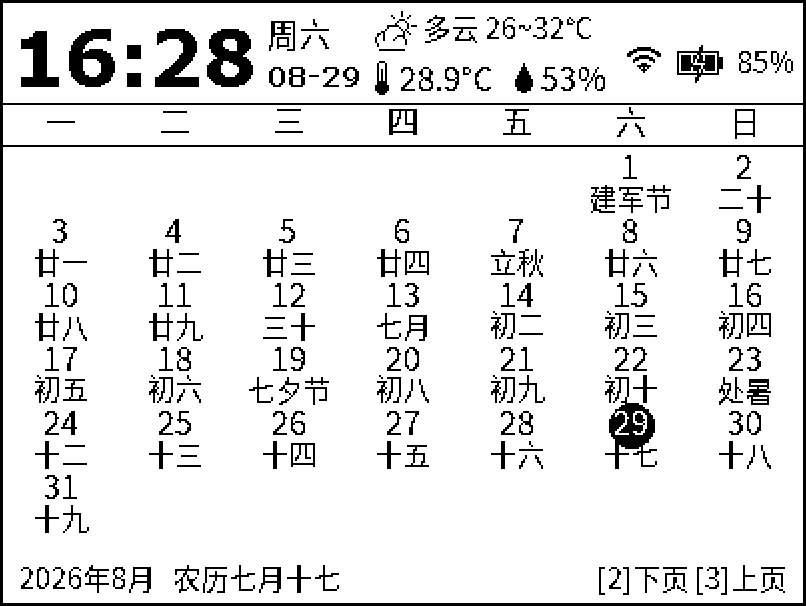
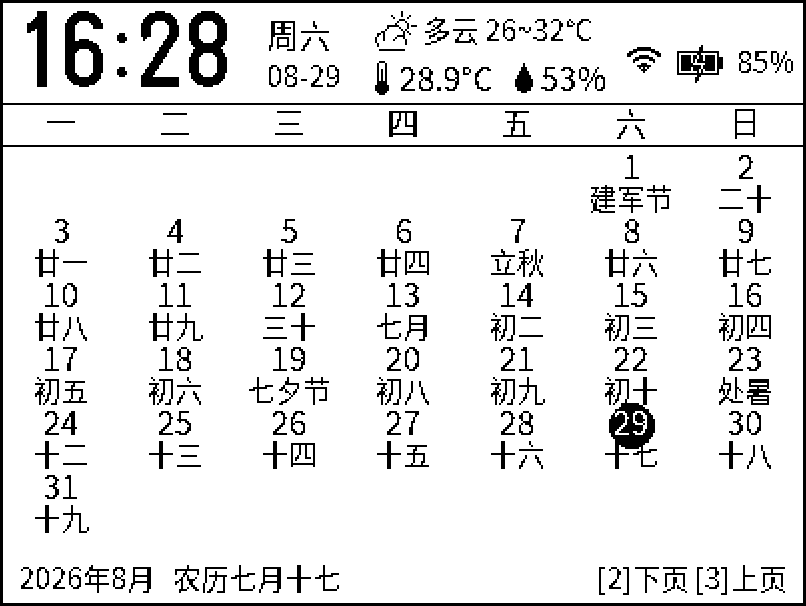
Previews render with the firmware's u8g2 bitmap fonts; ignore videos/

diff --git a/preview/u8g2font.py b/preview/u8g2font.py
@@ -1,0 +1,176 @@
+"""Render text with the u8g2 bitmap fonts the firmware compiles in, so the previews are pixel-identical to the device.
+
+The fonts are read straight out of the C sources: fonts_noto.c (the 14/16/18 px Noto Sans CJK sets generated by
+gen_fonts.sh) and U8g2's own u8g2_fonts.c (logisoso38_tn, the time font). No font files are needed beyond those.
+
+    from u8g2font import fonts, Draw
+    F = fonts()                       # {14: noto14, 16: noto16, 18: noto18, 38: logisoso38_tn}
+    d = Draw(img)                     # drop-in for ImageDraw.Draw: text()/textlength() accept these fonts
+    d.text((8, 42), "16:28", font=F[38], anchor="ls")
+
+Baseline semantics follow u8g2: the y coordinate is the baseline, glyphs sit above it; a glyph missing from the
+font draws nothing and advances 0 px (a blank on the preview means a blank on the device — extend charset.txt).
+"""
+import os, re, sys
+from PIL import ImageDraw
+
+HERE = os.path.dirname(os.path.abspath(__file__))
+U8G2_FONTS_C_CANDIDATES = [
+    os.environ.get("U8G2_FONTS_C", ""),
+    os.path.expanduser("~/arduino-user/libraries/U8g2_for_Adafruit_GFX/src/u8g2_fonts.c"),
+    os.path.expanduser("~/Documents/Arduino/libraries/U8g2_for_Adafruit_GFX/src/u8g2_fonts.c"),
+]
+
+_ESC = {"n": 10, "t": 9, "r": 13, "a": 7, "b": 8, "f": 12, "v": 11, "\\": 92, '"': 34, "'": 39, "?": 63}
+
+def _unescape(lit):
+    """Bytes of a C string literal body (no surrounding quotes): octal/hex escapes, plus the simple ones."""
+    out = bytearray(); i = 0; n = len(lit)
+    while i < n:
+        c = lit[i]
+        if c != "\\": out.append(ord(c)); i += 1; continue
+        i += 1; c = lit[i]
+        if c in "01234567":
+            j = i
+            while j < n and j - i < 3 and lit[j] in "01234567": j += 1
+            out.append(int(lit[i:j], 8) & 0xFF); i = j
+        elif c == "x":
+            j = i + 1
+            while j < n and lit[j] in "0123456789abcdefABCDEF": j += 1
+            out.append(int(lit[i+1:j], 16) & 0xFF); i = j
+        else:
+            out.append(_ESC[c]); i += 1
+    return bytes(out)
+
+def load_c_font(path, name):
+    """Extract the byte array of `name` from a C file where it is stored as concatenated string literals."""
+    with open(path, "rb") as fh: src = fh.read().decode("latin-1")
+    m = re.search(r"\b" + re.escape(name) + r"\s*\[\s*\d*\s*\][^=;]*=\s*", src)
+    if not m: raise KeyError(f"{name} not found in {path}")
+    data = bytearray(); p = m.end()
+    for lit in re.finditer(r'"((?:[^"\\]|\\.)*)"|;', src[p:]):
+        if lit.group(0) == ";": break
+        data += _unescape(lit.group(1))
+    return bytes(data)
+
+class _Bits:
+    def __init__(self, data, pos): self.d = data; self.pos = pos; self.bit = 0
+    def u(self, cnt):               # unsigned, LSB first, exactly like u8g2_font_decode_get_unsigned_bits
+        val = self.d[self.pos] >> self.bit
+        if self.bit + cnt >= 8:
+            self.pos += 1
+            if self.pos < len(self.d): val |= self.d[self.pos] << (8 - self.bit)
+            self.bit = self.bit + cnt - 8
+        else: self.bit += cnt
+        return val & ((1 << cnt) - 1)
+    def s(self, cnt): return self.u(cnt) - (1 << (cnt - 1))
+
+class U8g2Font:
+    HDR = 23
+    def __init__(self, data, name=""):
+        self.data = data; self.name = name; d = data
+        (self.glyph_cnt, self.bbx_mode, self.bits_0, self.bits_1, self.bits_w, self.bits_h, self.bits_x, self.bits_y,
+         self.bits_dx, self.max_w, self.max_h) = d[:11]
+        self.ascent_A = _s8(d[13]); self.descent_g = _s8(d[14]); self.ascent_para = _s8(d[15]); self.descent_para = _s8(d[16])
+        self._index = {}            # codepoint -> offset of the glyph bit data
+        p = self.HDR
+        while p + 1 < len(d) and d[p + 1] != 0:            # 8-bit encodings: [enc][len][bits...]
+            self._index[d[p]] = p + 2; p += d[p + 1]
+        upos = (d[21] << 8) | d[22]
+        if upos:                                            # unicode block: jump table then [enc16][len][bits...]
+            table = self.HDR + upos; p = table + ((d[table] << 8) | d[table + 1])
+            while p + 2 < len(d):
+                e = (d[p] << 8) | d[p + 1]
+                if e == 0: break
+                self._index[e] = p + 3; p += d[p + 2]
+        self._cache = {}
+        self._warned = set()
+
+    def glyph(self, cp):
+        """(w, h, xo, yo, dx, rows) with rows a list of ints (bit 1<<(w-1-col) set = ink); None if missing."""
+        if cp in self._cache: return self._cache[cp]
+        off = self._index.get(cp)
+        if off is None: self._cache[cp] = None; return None
+        b = _Bits(self.data, off)
+        w = b.u(self.bits_w); h = b.u(self.bits_h); xo = b.s(self.bits_x); yo = b.s(self.bits_y); dx = b.s(self.bits_dx)
+        rows = [0] * h
+        if w > 0 and h > 0:
+            x = y = 0
+            def run(n, ink):
+                nonlocal x, y
+                while n > 0:
+                    cnt = min(n, w - x)
+                    if ink and y < h: rows[y] |= ((1 << cnt) - 1) << (w - x - cnt)
+                    x += cnt; n -= cnt
+                    if x >= w: x = 0; y += 1
+            while True:
+                a = b.u(self.bits_0); c = b.u(self.bits_1)
+                while True:
+                    run(a, False); run(c, True)
+                    if b.u(1) == 0: break
+                if y >= h: break
+        g = (w, h, xo, yo, dx, rows); self._cache[cp] = g; return g
+
+    def width(self, s):             # same as U8g2_for_Adafruit_GFX::getUTF8Width: sum of delta_x, 0 for missing glyphs
+        return sum(g[4] for g in (self.glyph(ord(c)) for c in s) if g)
+
+    def draw(self, img, x, y, s, fill=0):
+        px = img.load(); W, H = img.size; x = int(x); y = int(y)
+        for c in s:
+            g = self.glyph(ord(c))
+            if g is None:
+                if c not in self._warned:
+                    self._warned.add(c); print(f"u8g2font: '{c}' (U+{ord(c):04X}) is not in {self.name}", file=sys.stderr)
+                continue
+            w, h, xo, yo, dx, rows = g
+            top = y - (h + yo); left = x + xo
+            for r, bits in enumerate(rows):
+                if not bits: continue
+                yy = top + r
+                if 0 <= yy < H:
+                    for col in range(w):
+                        if bits & (1 << (w - 1 - col)):
+                            xx = left + col
+                            if 0 <= xx < W: px[xx, yy] = fill
+            x += dx
+
+class Draw:
+    """ImageDraw.Draw stand-in: text()/textlength() route U8g2Font instances to the bitmap renderer,
+    everything else (lines, rectangles, PIL fonts) goes to the wrapped ImageDraw."""
+    def __init__(self, img): self.img = img; self._d = ImageDraw.Draw(img)
+    def __getattr__(self, n): return getattr(self._d, n)
+    def textlength(self, s, font=None, **kw):
+        if isinstance(font, U8g2Font): return font.width(s)
+        return self._d.textlength(s, font=font, **kw)
+    def text(self, xy, s, font=None, fill=0, anchor="ls", **kw):
+        if not isinstance(font, U8g2Font): return self._d.text(xy, s, font=font, fill=fill, anchor=anchor, **kw)
+        if anchor[1] != "s": raise ValueError("u8g2 fonts draw from the baseline only (anchor '?s')")
+        x, y = xy; tw = font.width(s)
+        if anchor[0] == "r": x -= tw                     # ui.cpp txtRight
+        elif anchor[0] == "m": x -= tw // 2              # ui.cpp txtCenter (integer division)
+        font.draw(self.img, x, y, s, fill)
+
+def _s8(v): return v - 256 if v > 127 else v
+
+_FONTS = None
+def fonts():
+    """{14: noto14, 16: noto16, 18: noto18, 38: logisoso38_tn} — exactly the sets ui.cpp binds to F_SM/F_TXT/F_NAME/F_TIME."""
+    global _FONTS
+    if _FONTS: return _FONTS
+    noto = os.path.join(HERE, "..", "fonts_noto.c")
+    F = {sz: U8g2Font(load_c_font(noto, f"u8g2_font_noto{sz}_hd"), f"noto{sz}") for sz in (14, 16, 18)}
+    for p in U8G2_FONTS_C_CANDIDATES:
+        if p and os.path.exists(p):
+            F[38] = U8g2Font(load_c_font(p, "u8g2_font_logisoso38_tn"), "logisoso38_tn"); break
+    else:
+        raise FileNotFoundError("u8g2_fonts.c (U8g2_for_Adafruit_GFX) not found; set U8G2_FONTS_C=/path/to/u8g2_fonts.c")
+    _FONTS = F; return F
+
+if __name__ == "__main__":          # quick self-check: dump a few glyphs as ASCII art
+    F = fonts()
+    for sz, text in ((38, "07:"), (16, "周五"), (14, "更新")):
+        f = F[sz]; print(f"{f.name}: glyphs={len(f._index)} ascent={f.ascent_A} descent={f.descent_g} width({text!r})={f.width(text)}")
+        for c in text:
+            g = f.glyph(ord(c)); w, h, xo, yo, dx, rows = g
+            print(f"  {c!r} w={w} h={h} xo={xo} yo={yo} dx={dx}")
+            for r in rows: print("   " + "".join("#" if r & (1 << (w - 1 - i)) else "." for i in range(w)))

diff --git a/preview/mock.py b/preview/mock.py
@@ -1,18 +1,18 @@
-"""Local preview: draw the 400x300 dashboard with PIL using ui.cpp's coordinate system (a macOS CJK font
-approximates the u8g2 wqy bitmap font).
+"""Local preview: draw the 400x300 dashboard with PIL using ui.cpp's coordinate system and the firmware's own
+u8g2 bitmap fonts (see u8g2font.py), so the output is pixel-identical to the device.
 Usage: uvx --with pillow python mock.py [out.png] [--en]
 --en draws the English UI (cfg.lang=1); fields pushed by the server (server names, Claude window names) are
 left as-is, matching the real device."""
 import sys
-from PIL import Image, ImageDraw, ImageFont, ImageOps
+from PIL import Image, ImageOps
+from u8g2font import fonts, Draw
 EN = "--en" in sys.argv
 def L(zh, en): return en if EN else zh
 W, H = 400, 300
-CJK = "NotoSansCJKsc-Regular.otf"
-DIGIT = "/System/Library/Fonts/Supplemental/Verdana Bold.ttf"
-def f(sz): return ImageFont.truetype(CJK, sz)
-def fd(sz): return ImageFont.truetype(DIGIT, sz)
-img = Image.new("1", (W, H), 1); d = ImageDraw.Draw(img)
+F = fonts()                       # the firmware's own u8g2 bitmap fonts: 14/16/18 px Noto (fonts_noto.c) + logisoso38 (time)
+def f(sz): return F[sz]           # F_SM / F_TXT / F_NAME in ui.cpp
+def fd(sz): return F[sz]          # 38 → F_TIME; 14 → the date is plain F_SM on the device
+img = Image.new("1", (W, H), 1); d = Draw(img)
 def txt(x, y, s, font, fill=0, anchor="ls"): d.text((x, y), s, font=font, fill=fill, anchor=anchor)
 def tw(s, font): return d.textlength(s, font=font)
 def meter(x, y, w, h, pct): d.rectangle([x, y, x+w-1, y+h-1], outline=0); fw=int((w-2)*pct/100); 

diff --git a/preview/mock_cal_weather.py b/preview/mock_cal_weather.py
@@ -1,17 +1,18 @@
 """Calendar-page / weather-page preview (coordinates match ui.cpp's drawCalendarPage / drawWeatherPage exactly)
 Usage: uvx --with pillow --with lunar_python python mock_cal_weather.py [--en]"""
 import re, sys, calendar
-from PIL import Image, ImageDraw, ImageFont, ImageOps
+from PIL import Image, ImageOps
+from u8g2font import fonts, Draw
 from lunar_python import Solar
 EN = "--en" in sys.argv
 def L(zh, en): return en if EN else zh
 SFX = "_en" if EN else ""
 W, H, TOP = 400, 300, 50
-CJK = "NotoSansCJKsc-Regular.otf"; DIGIT = "/System/Library/Fonts/Supplemental/Verdana Bold.ttf"
-def f(sz): return ImageFont.truetype(CJK, sz)
-def fd(sz): return ImageFont.truetype(DIGIT, sz)
+F = fonts()                       # the firmware's own u8g2 bitmap fonts: 14/16/18 px Noto (fonts_noto.c) + logisoso38 (time)
+def f(sz): return F[sz]           # F_SM / F_TXT / F_NAME in ui.cpp
+def fd(sz): return F[sz]          # 38 → F_TIME; 14 → the date is plain F_SM on the device
 def new():
-    img = Image.new("1", (W, H), 1); d = ImageDraw.Draw(img); return img, d
+    img = Image.new("1", (W, H), 1); d = Draw(img); return img, d
 def icon_wx_mini(d, x, y, code):   # small top-bar weather icon, mirrors ui.cpp iconWxMini
     import math
     def cloud(x, y):

diff --git a/preview/mock_pages.py b/preview/mock_pages.py
@@ -1,16 +1,17 @@
 """Detail-page preview: Servers / Claude / Device (coordinates mirror ui.cpp)
 Usage: uvx --with pillow python mock_pages.py [--en]"""
 import sys, math
-from PIL import Image, ImageDraw, ImageFont, ImageOps
+from PIL import Image, ImageOps
+from u8g2font import fonts, Draw
 EN = "--en" in sys.argv
 def L(zh, en): return en if EN else zh
 SFX = "_en" if EN else ""
 W, H, TOP = 400, 300, 50
-CJK = "NotoSansCJKsc-Regular.otf"; DIGIT = "/System/Library/Fonts/Supplemental/Verdana Bold.ttf"
-def f(sz): return ImageFont.truetype(CJK, sz)
-def fd(sz): return ImageFont.truetype(DIGIT, sz)
+F = fonts()                       # the firmware's own u8g2 bitmap fonts: 14/16/18 px Noto (fonts_noto.c) + logisoso38 (time)
+def f(sz): return F[sz]           # F_SM / F_TXT / F_NAME in ui.cpp
+def fd(sz): return F[sz]          # 38 → F_TIME; 14 → the date is plain F_SM on the device
 def new():
-    img = Image.new("1", (W, H), 1); d = ImageDraw.Draw(img); return img, d
+    img = Image.new("1", (W, H), 1); d = Draw(img); return img, d
 def icon_wx_mini(d, x, y, code):   # small top-bar weather icon, mirrors ui.cpp iconWxMini
     import math
     def cloud(x, y):

diff --git a/README.md b/README.md
@@ -172,7 +172,11 @@ To switch: hold SW3 and reset into setup → change the server URL to the `https
 ## Layout and fonts
 
 - `preview/mock.py` (PIL) is the source of truth for the layout: render coordinate changes locally first, then port them to
-  `ui.cpp` (the coordinates match one to one). `uvx --with pillow python preview/mock.py out.png`
+  `ui.cpp` (the coordinates match one to one). `cd preview && uvx --with pillow python mock.py out.png`
+- The previews draw with the firmware's own u8g2 bitmap fonts (`preview/u8g2font.py` decodes them straight out of `fonts_noto.c`
+  and U8g2's `u8g2_fonts.c`), so what you see is pixel-identical to the panel, text widths included. It looks for
+  `u8g2_fonts.c` in `~/arduino-user/libraries/U8g2_for_Adafruit_GFX/src/`; point `U8G2_FONTS_C` at it if yours is elsewhere.
+  A blank where a character should be means the glyph is missing from the charset — regenerate the fonts (below).
 - All three preview scripts take `--en` to draw the English UI (English runs wider than Chinese — use it to check nothing collides
   after a wording change): `uvx --with pillow python preview/mock.py --en`
 - Fonts: Noto Sans CJK SC converted to u8g2 bitmaps at 14 / 16 / 18 px (`fonts_noto.c`; the character set in
@@ -181,8 +185,7 @@ To switch: hold SW3 and reset into setup → change the server URL to the `https
   name: `cd preview && python3 gen_charset.py && cd .. && BDFCONV=~/.local/bin/bdfconv zsh preview/gen_fonts.sh`
   (build `bdfconv` from `tools/font/bdfconv` in the u8g2 repo, changing `-O4` to `-O2` in its Makefile).
 - Calendar and weather previews: `cd preview && uvx --with pillow --with lunar_python python mock_cal_weather.py [--en]`
-- To measure the real pixel width of an English string (same metrics as the device font):
-  `otf2bdf -p 14 -r 72 -o /tmp/n14.bdf preview/NotoSansCJKsc-Regular.otf`, then sum the `DWIDTH` values from the BDF
+- To measure the real pixel width of a string: `cd preview && uvx --with pillow python -c "from u8g2font import fonts; print(fonts()[14].width('Wk · Fable'))"`
 
 ## Gotchas
 

diff --git a/README.zh-CN.md b/README.zh-CN.md
@@ -134,13 +134,16 @@ docker compose up -d --build         # HTTP 8090
 
 ## 布局与字体
 
-- 布局以 `preview/mock.py`（PIL）为准：改坐标先在本地渲染确认，再同步到 `ui.cpp`（坐标一一对应）。`uvx --with pillow python preview/mock.py out.png`
+- 布局以 `preview/mock.py`（PIL）为准：改坐标先在本地渲染确认，再同步到 `ui.cpp`（坐标一一对应）。`cd preview && uvx --with pillow python mock.py out.png`
+- 预览图直接用固件里的 u8g2 点阵字库绘制（`preview/u8g2font.py` 从 `fonts_noto.c` 和 U8g2 的 `u8g2_fonts.c` 解码），
+  所以和屏幕逐像素一致，文字宽度也一致。`u8g2_fonts.c` 默认到 `~/arduino-user/libraries/U8g2_for_Adafruit_GFX/src/` 找，
+  路径不同就设环境变量 `U8G2_FONTS_C`。预览里某个字位置空白，说明字库里没这个字，按下面的步骤重新生成字库。
 - 三个预览脚本都支持 `--en`，画英文界面（英文比中文宽，改文案后用它确认不串行）：`uvx --with pillow python preview/mock.py --en`
 - 字体：Noto Sans CJK SC 转成 u8g2 位图，14 / 16 / 18 px（`fonts_noto.c`，字符集 `preview/charset.txt` 由 `preview/gen_charset.py` 从源码 + 服务端 weather.py/config.yaml 自动收集），
   时间用 u8g2 自带 `logisoso38_tn`。源码/服务器名里出现新字时：`cd preview && python3 gen_charset.py && cd .. && BDFCONV=~/.local/bin/bdfconv zsh preview/gen_fonts.sh`
   （`bdfconv` 从 u8g2 仓库 `tools/font/bdfconv` 编译，Makefile 里 `-O4` 改 `-O2`）。
 - 日历/天气页预览：`cd preview && uvx --with pillow --with lunar_python python mock_cal_weather.py [--en]`
-- 量英文文案的真实像素宽（和设备字库一致）：`otf2bdf -p 14 -r 72 -o /tmp/n14.bdf preview/NotoSansCJKsc-Regular.otf`，再按 BDF 里的 `DWIDTH` 求和
+- 量一段文案的真实像素宽：`cd preview && uvx --with pillow python -c "from u8g2font import fonts; print(fonts()[14].width('本周 · Fable'))"`
 
 ## 踩过的坑
 
